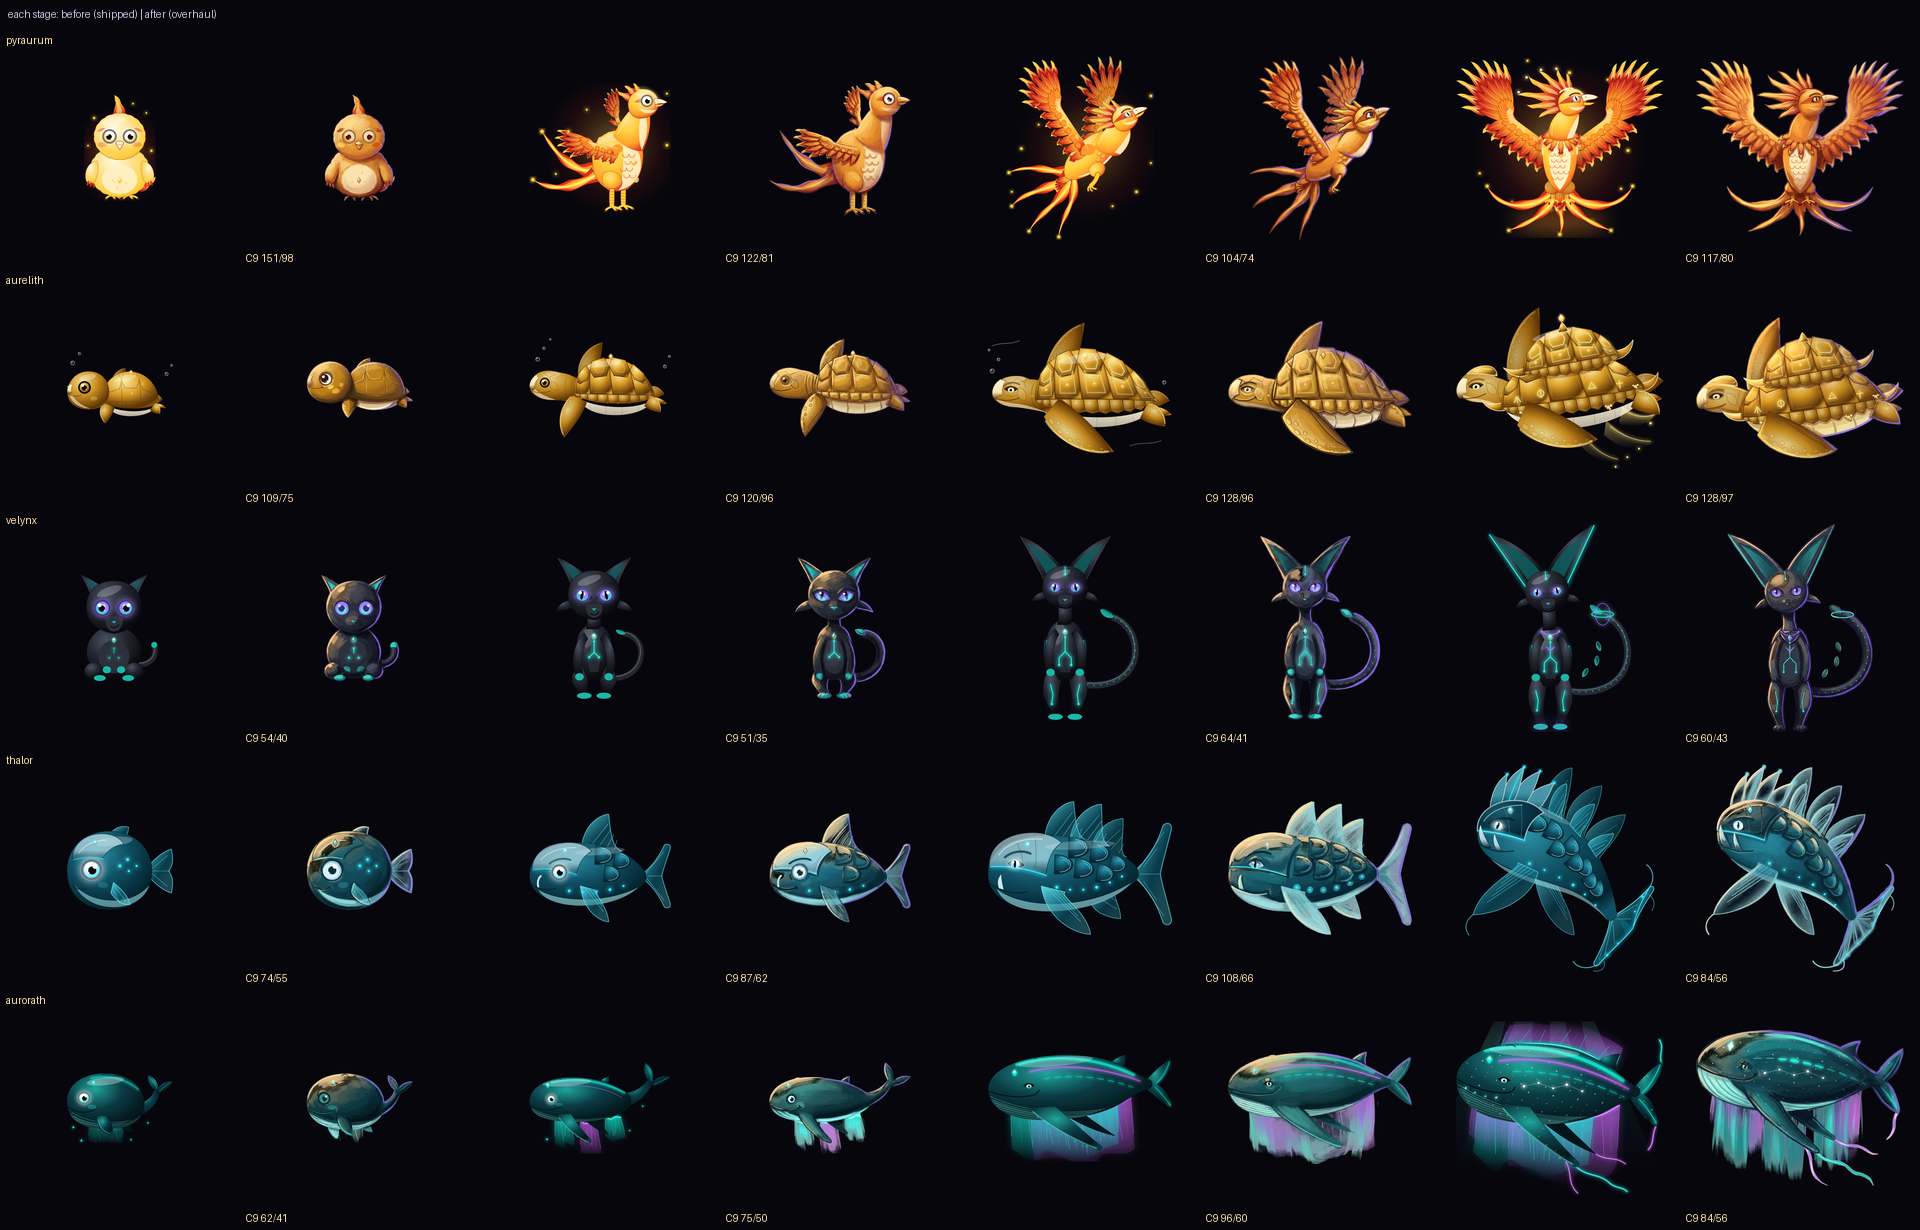
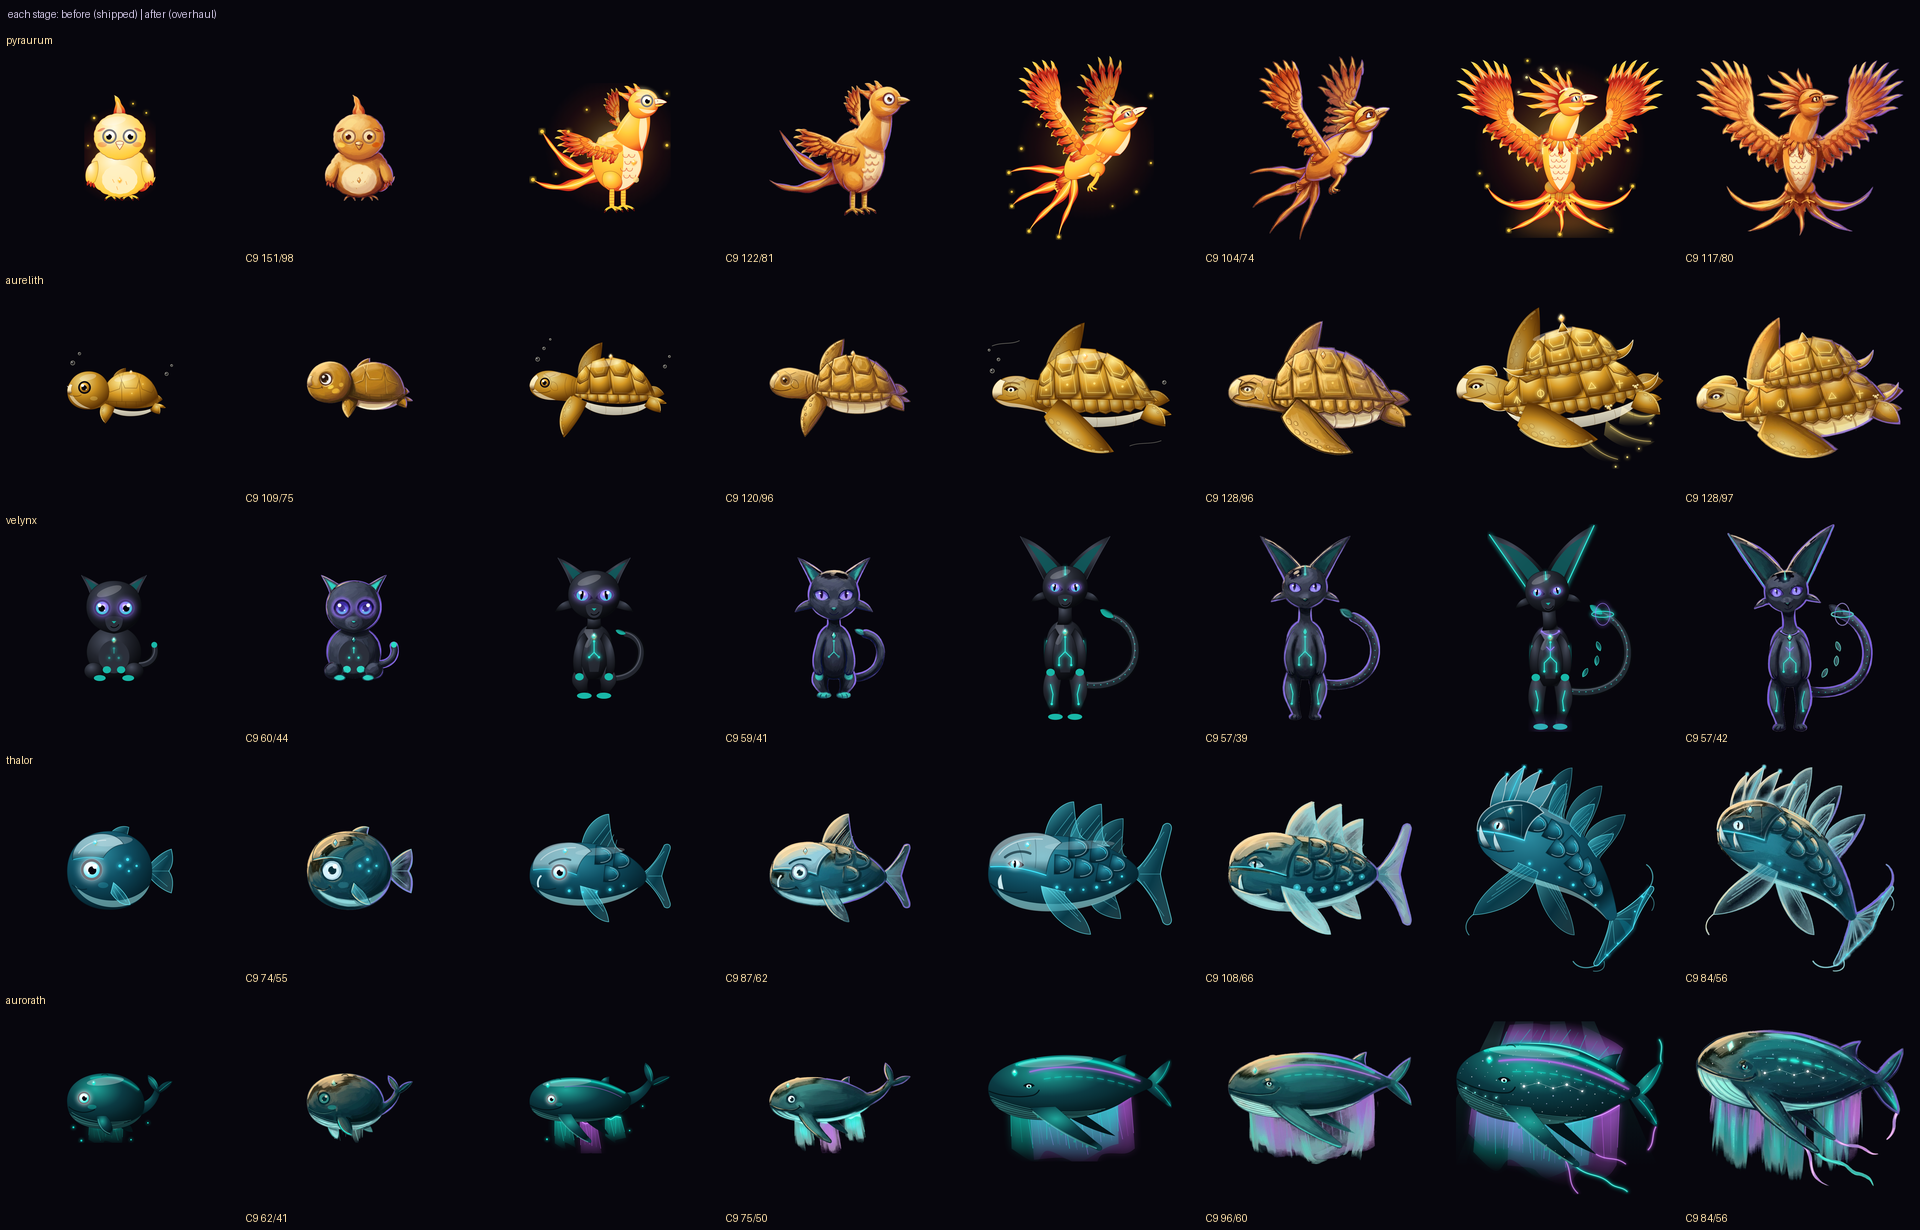
Overhaul: Velynx colour corrections (charcoal kept), ledger update incl. classified aggregate
Claude-Session: https://claude.ai/code/session_015SgjiSM2vaoxJreyytzu3W

diff --git a/docs/canon/generation-ledger.md b/docs/canon/generation-ledger.md
@@ -35,3 +35,9 @@ The owner chose the model in chat: "do banana 2.1". **Measured price: nano-banan
 | 23:36 | `3cef7f5c-3322-49f7-a73f-8fed26b60bae` | Aurelion 1 Eggling (pilot) | 4 | 1,875 | 20 |
 | 23:36 | `b3d2b04f-6598-497b-abac-33b5984ad3b4` | Aurelion 3 Evolved (pilot) | 4 | 1,871 | 24 |
 | 23:36 | `70795a73-caa0-45c9-ac89-5003b3f2da5e` | Frostkit 3 Evolved (pilot) | 4 | 1,867 | 28 |
+| 00:08–00:12 | (private ledger, held outside the public repo) | Classified stages: 23 images (one stage pending, see below) | 92 | 1,407 | — |
+
+The classified task list stays out of this public repository: species names and task IDs together would identify the art. The per-stage list goes to the website session by direct message only.
+| 00:15 | (private ledger) | Classified stages: 5 colour corrections | 20 | 1,387 | — |
+
+Per-image ledger for all non-classified overhaul work (including corrections and the owner's Solvanth 4 Nano Banana Pro edit, 20 credits): `art/creature-studio/overhaul/tasks.tsv`.
